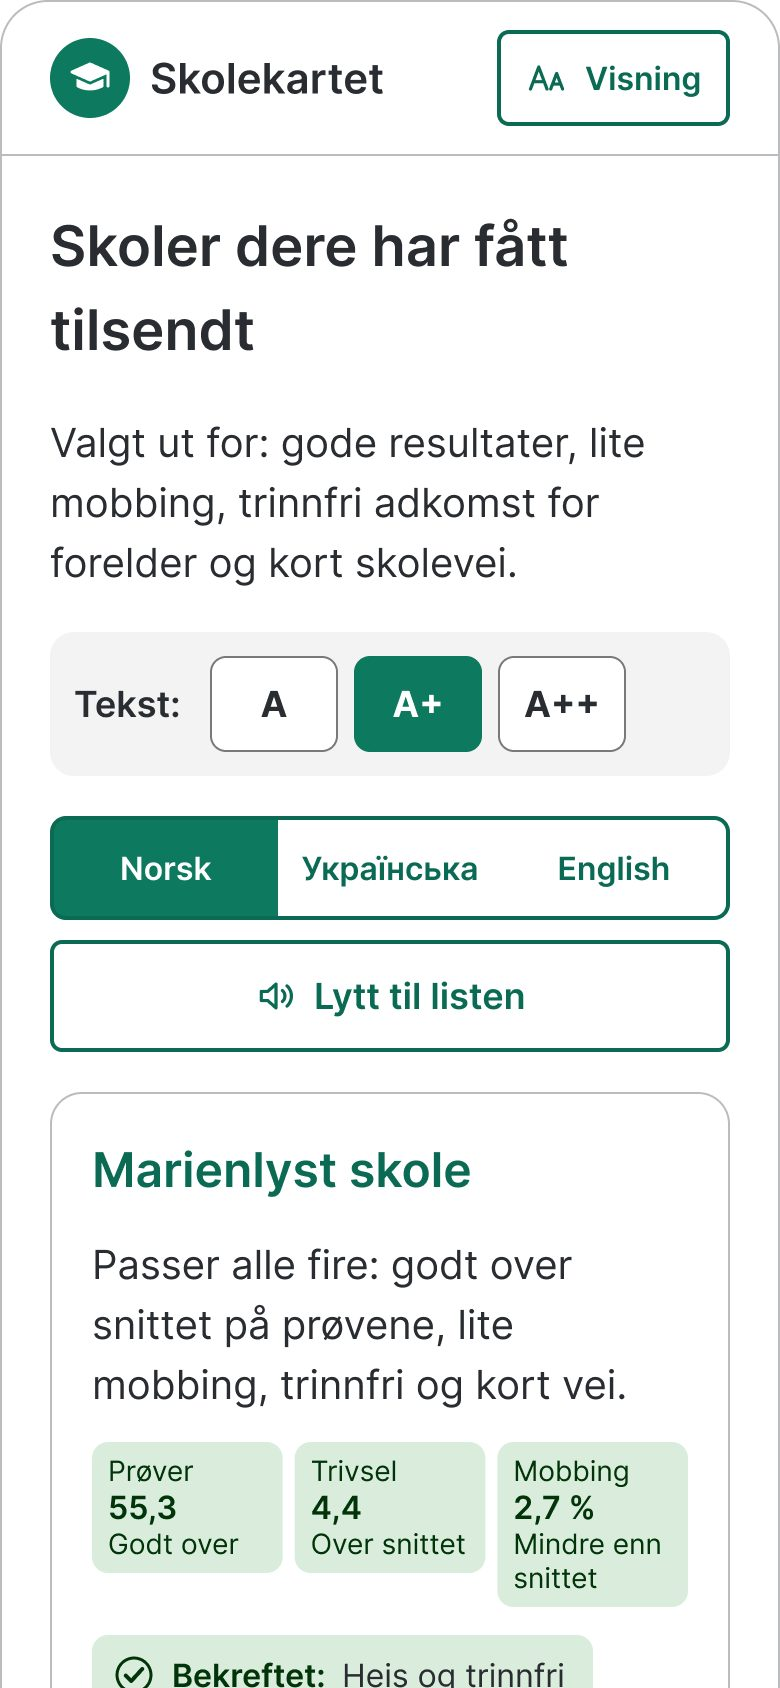
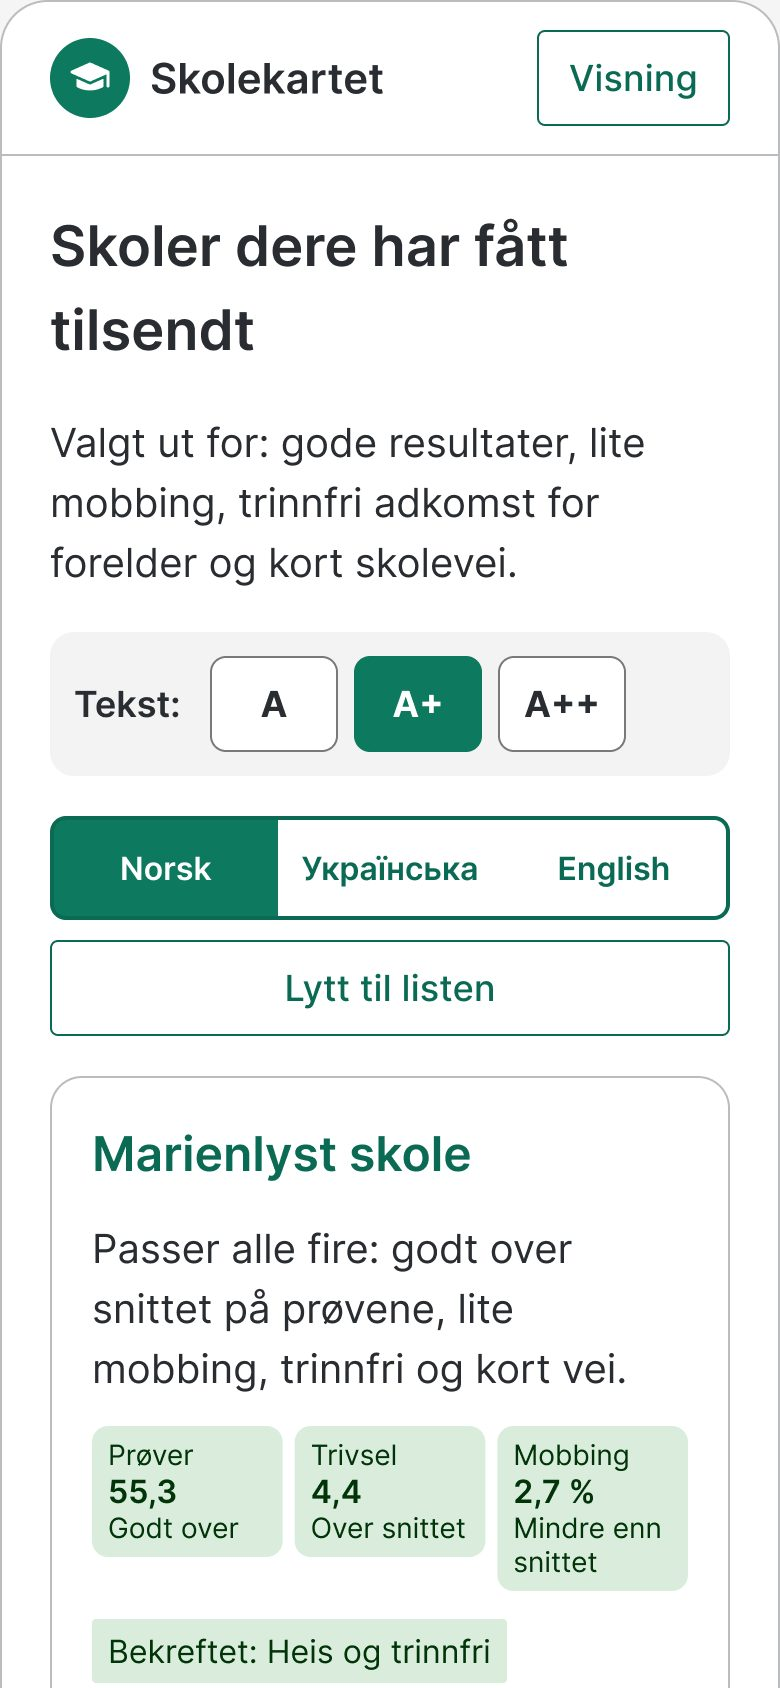
Skolekartet: rebuild screens on Designsystemet library, add why-Designsystemet section
All combined screens now use linked Designsystemet components (Button, Chip,
Tag, Alert, Details, ToggleGroup, Search, Checkbox) and its Dark colour scheme.
Re-exported every cmb image and the cover; new EN/NO reasoning in Principles.

diff --git a/skolekartet.html b/skolekartet.html
@@ -505,10 +505,37 @@
         <li><span class="n">04</span><b data-en="Why, in one sentence" data-no="Hvorfor, i én setning">Why, in one sentence</b><span data-en="Every school says why it&rsquo;s on the list, then gives the next step: call, ask or share." data-no="Hver skole sier hvorfor den er på listen, og gir neste steg: ring, spør eller del.">Every school says why it&rsquo;s on the list, then gives the next step: call, ask or share.</span></li>
         <li><span class="n">05</span><b data-en="The parent stays in control" data-no="Forelderen har kontrollen">The parent stays in control</b><span data-en="The list goes to their own device, their own assistive technology, their own text size." data-no="Listen går til deres egen enhet, egne hjelpemidler og egen tekststørrelse.">The list goes to their own device, their own assistive technology, their own text size.</span></li>
       </ol>
+      <h3 style="margin-top: 40px;" data-en="Why Designsystemet" data-no="Hvorfor Designsystemet">Why Designsystemet</h3>
+      <p data-en="Every screen uses the linked Designsystemet Figma library, not lookalike copies: real components, tokens and colour modes. For a public service like this, it was the obvious choice."
+         data-no="Hver skjerm bruker det koblede Figma-biblioteket til Designsystemet, ikke kopier som ligner: ekte komponenter, tokens og fargemoduser. For en offentlig tjeneste som denne var det det åpenbare valget.">
+        Every screen uses the linked Designsystemet Figma library, not lookalike copies: real components, tokens and colour modes. For a public service like this, it was the obvious choice.
+      </p>
+      <ul class="sf-ai-list">
+        <li data-en-html="<strong>Made for exactly this kind of service.</strong> It is the shared, open-source design system for Norwegian public services, maintained by Digdir. A school finder for parents is a public-information service, so it should look and behave like the other public services they already use, such as NAV, Skatteetaten and their kommune."
+            data-no-html="<strong>Laget for akkurat denne typen tjeneste.</strong> Det er det felles designsystemet med åpen kildekode for offentlige tjenester i Norge, forvaltet av Digdir. En skolevelger for foreldre er en offentlig informasjonstjeneste, så den bør se ut og oppføre seg som de andre offentlige tjenestene de allerede bruker, som NAV, Skatteetaten og kommunen.">
+          <strong>Made for exactly this kind of service.</strong> It is the shared, open-source design system for Norwegian public services, maintained by Digdir. A school finder for parents is a public-information service, so it should look and behave like the other public services they already use, such as NAV, Skatteetaten and their kommune.
+        </li>
+        <li data-en-html="<strong>Accessibility is built in, not added later.</strong> Universal design is required by law in Norway (likestillings- og diskrimineringsloven, WCAG 2.2). The components handle focus, keyboard use, contrast and screen-reader names. That matters most for this audience: parents who use JAWS, switch control or very large text."
+            data-no-html="<strong>Tilgjengelighet er bygget inn, ikke lagt til etterpå.</strong> Universell utforming er lovpålagt i Norge (likestillings- og diskrimineringsloven, WCAG 2.2). Komponentene håndterer fokus, tastatur, kontrast og navn for skjermleser. Det betyr mest for akkurat denne målgruppen: foreldre som bruker JAWS, brytere eller svært stor tekst.">
+          <strong>Accessibility is built in, not added later.</strong> Universal design is required by law in Norway (likestillings- og diskrimineringsloven, WCAG 2.2). The components handle focus, keyboard use, contrast and screen-reader names. That matters most for this audience: parents who use JAWS, switch control or very large text.
+        </li>
+        <li data-en-html="<strong>The design maps straight to code.</strong> The live Skolekartet already runs on designsystemet-css, so every Button, Chip, Tag, Alert, Details, ToggleGroup, Search and Checkbox in Figma is a component my friend already has. No new UI library, no handoff gap."
+            data-no-html="<strong>Designet kan bygges direkte.</strong> Det ekte Skolekartet kjører allerede på designsystemet-css, så hver Button, Chip, Tag, Alert, Details, ToggleGroup, Search og Checkbox i Figma er en komponent venninnen min allerede har. Ingen nytt UI-bibliotek, ingen glipp i overleveringen.">
+          <strong>The design maps straight to code.</strong> The live Skolekartet already runs on designsystemet-css, so every Button, Chip, Tag, Alert, Details, ToggleGroup, Search and Checkbox in Figma is a component my friend already has. No new UI library, no handoff gap.
+        </li>
+        <li data-en-html="<strong>Themes and colour modes for free.</strong> The green brand theme, the success/warning/neutral colours on the fact tags and the dark screen all come from Designsystemet&rsquo;s tokens and its Light and Dark colour schemes. Dark mode is a switch, not a second design."
+            data-no-html="<strong>Temaer og fargemoduser uten ekstra arbeid.</strong> Det grønne temaet, fargene success/warning/neutral på faktaetikettene og den mørke skjermen kommer alle fra Designsystemets tokens og fargemodusene Light og Dark. Mørk modus er en bryter, ikke et nytt design.">
+          <strong>Themes and colour modes for free.</strong> The green brand theme, the success/warning/neutral colours on the fact tags and the dark screen all come from Designsystemet&rsquo;s tokens and its Light and Dark colour schemes. Dark mode is a switch, not a second design.
+        </li>
+        <li data-en-html="<strong>Less to maintain for a one-person project.</strong> Skolekartet is a side project. With shared components and open documentation, updates and accessibility fixes come from the system, not from my friend."
+            data-no-html="<strong>Mindre å vedlikeholde for et enpersonsprosjekt.</strong> Skolekartet er et sideprosjekt. Med felles komponenter og åpen dokumentasjon kommer oppdateringer og tilgjengelighetsfikser fra systemet, ikke fra venninnen min.">
+          <strong>Less to maintain for a one-person project.</strong> Skolekartet is a side project. With shared components and open documentation, updates and accessibility fixes come from the system, not from my friend.
+        </li>
+      </ul>
       <p style="margin-top: 20px;"
-         data-en="All of it is built on Designsystemet&rsquo;s tokens, with five new components: Header, Footer, Fakta, Valgkort and a new school card. Every redesigned screen has a rationale panel beside it: what was wrong, how I fixed it and why, what it does for accessibility, and what I considered and rejected."
-         data-no="Alt er bygget på Designsystemets tokens, med fem nye komponenter: Header, Footer, Fakta, Valgkort og et nytt skolekort. Hver redesignede skjerm har et begrunnelsespanel ved siden av: hva som var galt, hvordan jeg løste det og hvorfor, hva det gjør for tilgjengelighet, og hva jeg vurderte og forkastet.">
-        All of it is built on Designsystemet&rsquo;s tokens, with five new components: Header, Footer, Fakta, Valgkort and a new school card. Every redesigned screen has a rationale panel beside it: what was wrong, how I fixed it and why, what it does for accessibility, and what I considered and rejected.
+         data-en="Only three things are custom: the school tile with its coloured edge, the three number tiles and the map pins. Each is built from Designsystemet tokens, so it matches the components around it. Every redesigned screen also has a rationale panel beside it: what was wrong, how I fixed it and why, what it does for accessibility, and what I considered and rejected."
+         data-no="Bare tre ting er egne: skolekortet med fargekant, de tre talltilene og kartmarkørene. Alle er bygget av Designsystemets tokens, så de passer med komponentene rundt. Hver redesignede skjerm har også et begrunnelsespanel ved siden av: hva som var galt, hvordan jeg løste det og hvorfor, hva det gjør for tilgjengelighet, og hva jeg vurderte og forkastet.">
+        Only three things are custom: the school tile with its coloured edge, the three number tiles and the map pins. Each is built from Designsystemet tokens, so it matches the components around it. Every redesigned screen also has a rationale panel beside it: what was wrong, how I fixed it and why, what it does for accessibility, and what I considered and rejected.
       </p>
       <figure class="sf-figure sk-wide">
         <img src="assets/case/sk/cmb-overview.jpg" width="2400" height="2221" loading="lazy"
@@ -532,9 +559,9 @@
         <div class="sk-step__text">
           <span class="kicker" data-en="Step 2 · What matters to you?" data-no="Steg 2 · Hva er viktig for dere?">Step 2 · What matters to you?</span>
           <h3 data-en="Every family defines &ldquo;best&rdquo;, and results count as much as access" data-no="Hver familie definerer «best», og resultater teller like mye som tilgjengelighet">Every family defines &ldquo;best&rdquo;, and results count as much as access</h3>
-          <p data-en="After one question about where they live, large cards in everyday language. Learning and wellbeing come first, as equals: good results on the national tests, pupils who thrive, little bullying. Then getting around, support and everyday life. Each option says what it changes, and nothing is selected by default."
-             data-no="Etter ett spørsmål om hvor de bor, store kort med hverdagsspråk. Læring og trivsel kommer først, som likeverdige valg: gode resultater på nasjonale prøver, elever som trives, lite mobbing. Så komme seg rundt, støtte og hverdagen. Hvert valg sier hva det endrer, og ingenting er valgt fra start.">
-            After one question about where they live, large cards in everyday language. Learning and wellbeing come first, as equals: good results on the national tests, pupils who thrive, little bullying. Then getting around, support and everyday life. Each option says what it changes, and nothing is selected by default.
+          <p data-en="After one question about where they live, grouped checkboxes in everyday language, each with a short description. Learning and wellbeing come first, as equals: good results on the national tests, pupils who thrive, little bullying. Then getting around, support and everyday life. Each option says what it changes, and nothing is selected by default."
+             data-no="Etter ett spørsmål om hvor de bor, grupperte avkrysningsbokser med hverdagsspråk, hver med en kort forklaring. Læring og trivsel kommer først, som likeverdige valg: gode resultater på nasjonale prøver, elever som trives, lite mobbing. Så komme seg rundt, støtte og hverdagen. Hvert valg sier hva det endrer, og ingenting er valgt fra start.">
+            After one question about where they live, grouped checkboxes in everyday language, each with a short description. Learning and wellbeing come first, as equals: good results on the national tests, pupils who thrive, little bullying. Then getting around, support and everyday life. Each option says what it changes, and nothing is selected by default.
           </p>
           <p data-en="In the first version, results sat at the bottom as an optional extra. That was my bias, not the parents&rsquo;. Most families care about results and wellbeing, and the family with MS cares about them too, next to step-free access. I asked about needs, not diagnoses, and choices about the child are never stored on a server."
              data-no="I første versjon lå resultater nederst som et valgfritt tillegg. Det var min skjevhet, ikke foreldrenes. De fleste familier bryr seg om resultater og trivsel, og familien med MS bryr seg om dem også, ved siden av trinnfri adkomst. Jeg spurte om behov, ikke diagnoser, og valg om barnet lagres aldri på en server.">
